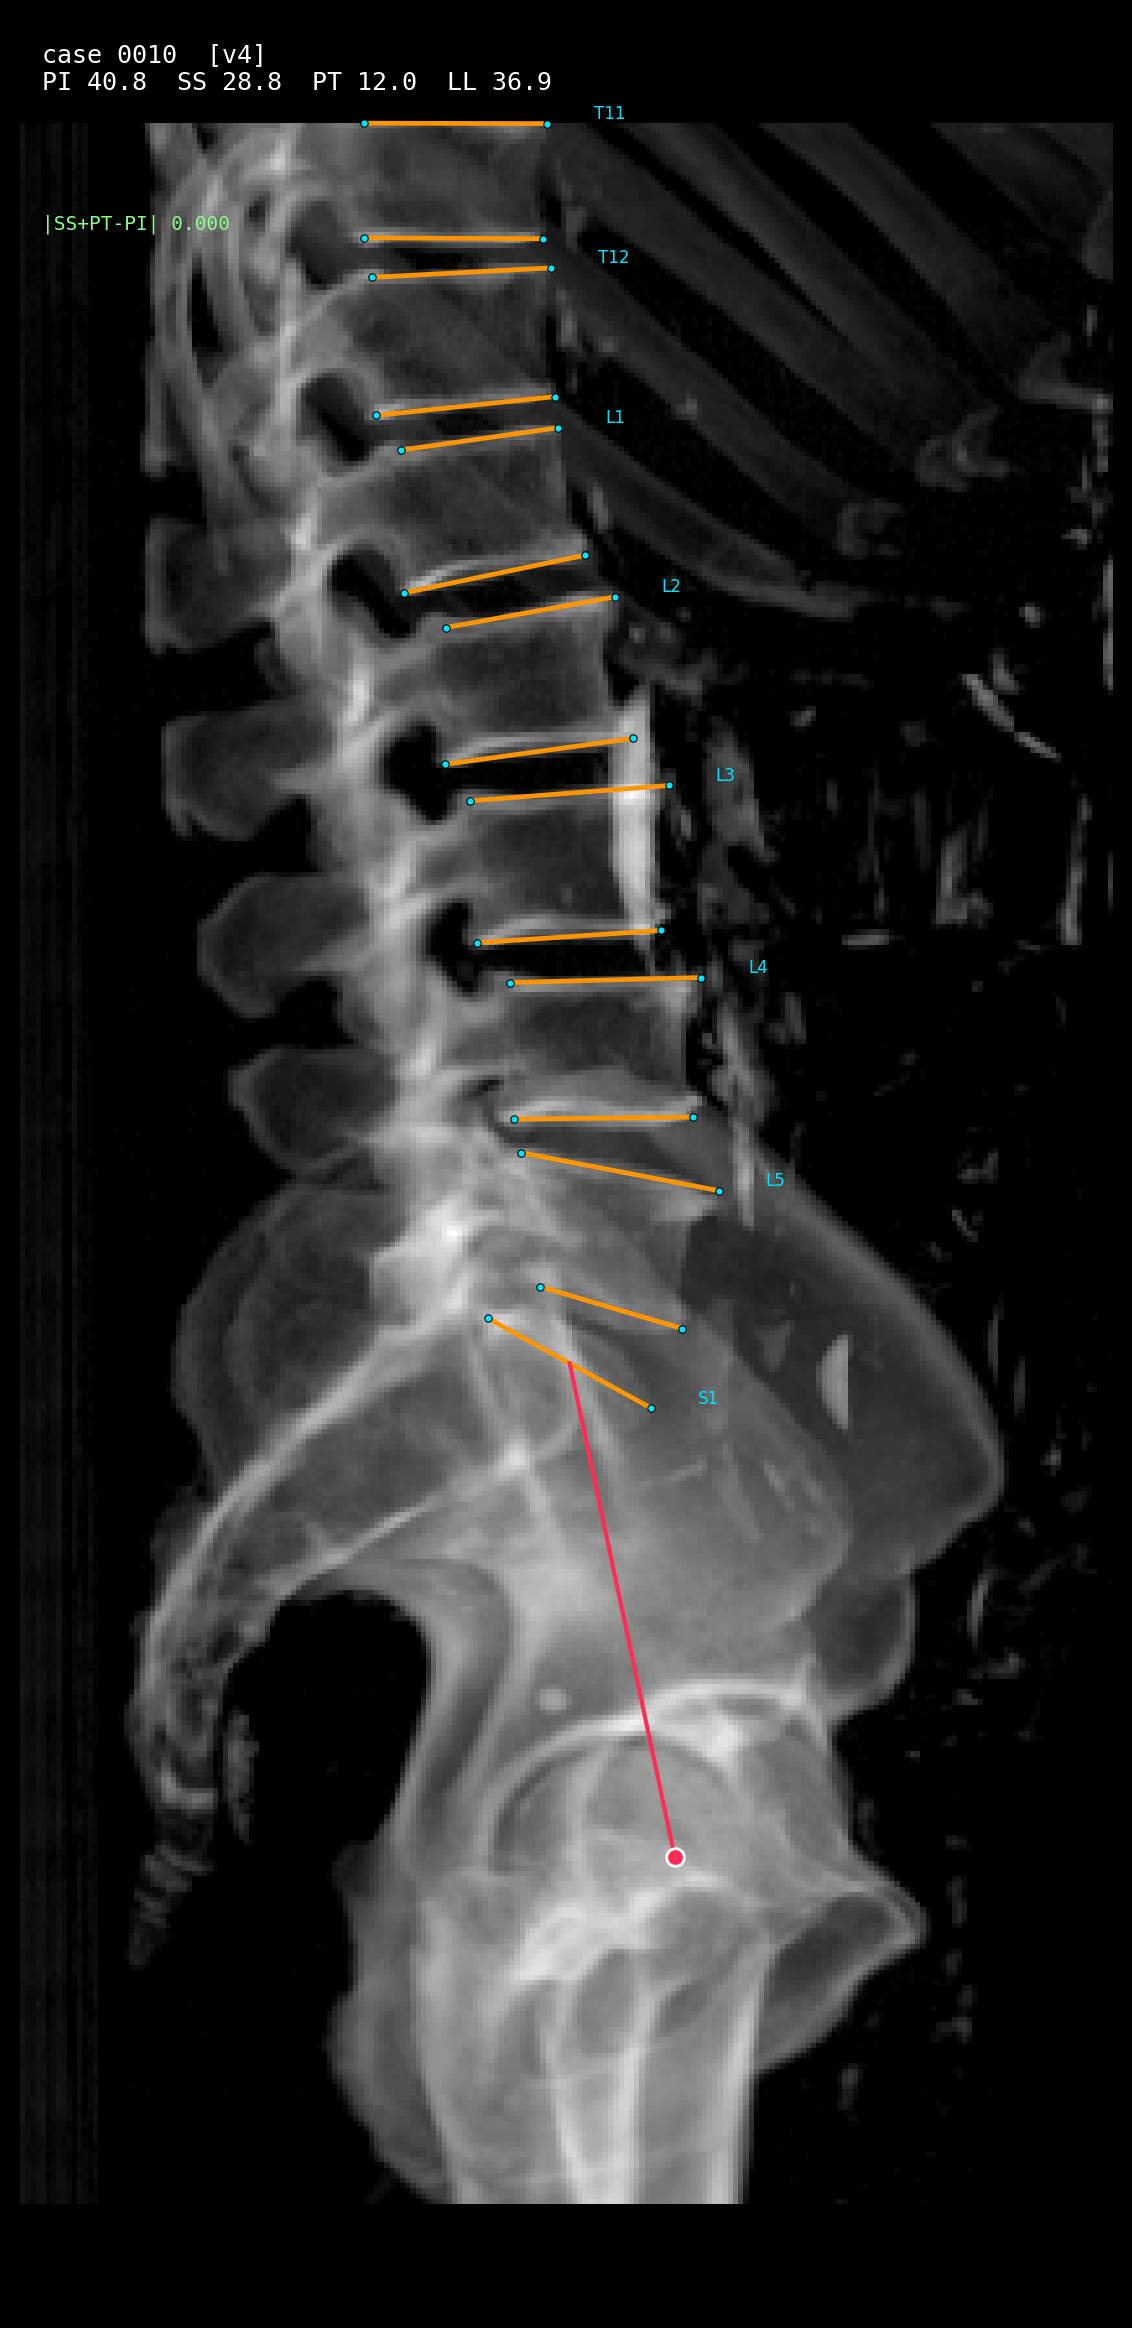
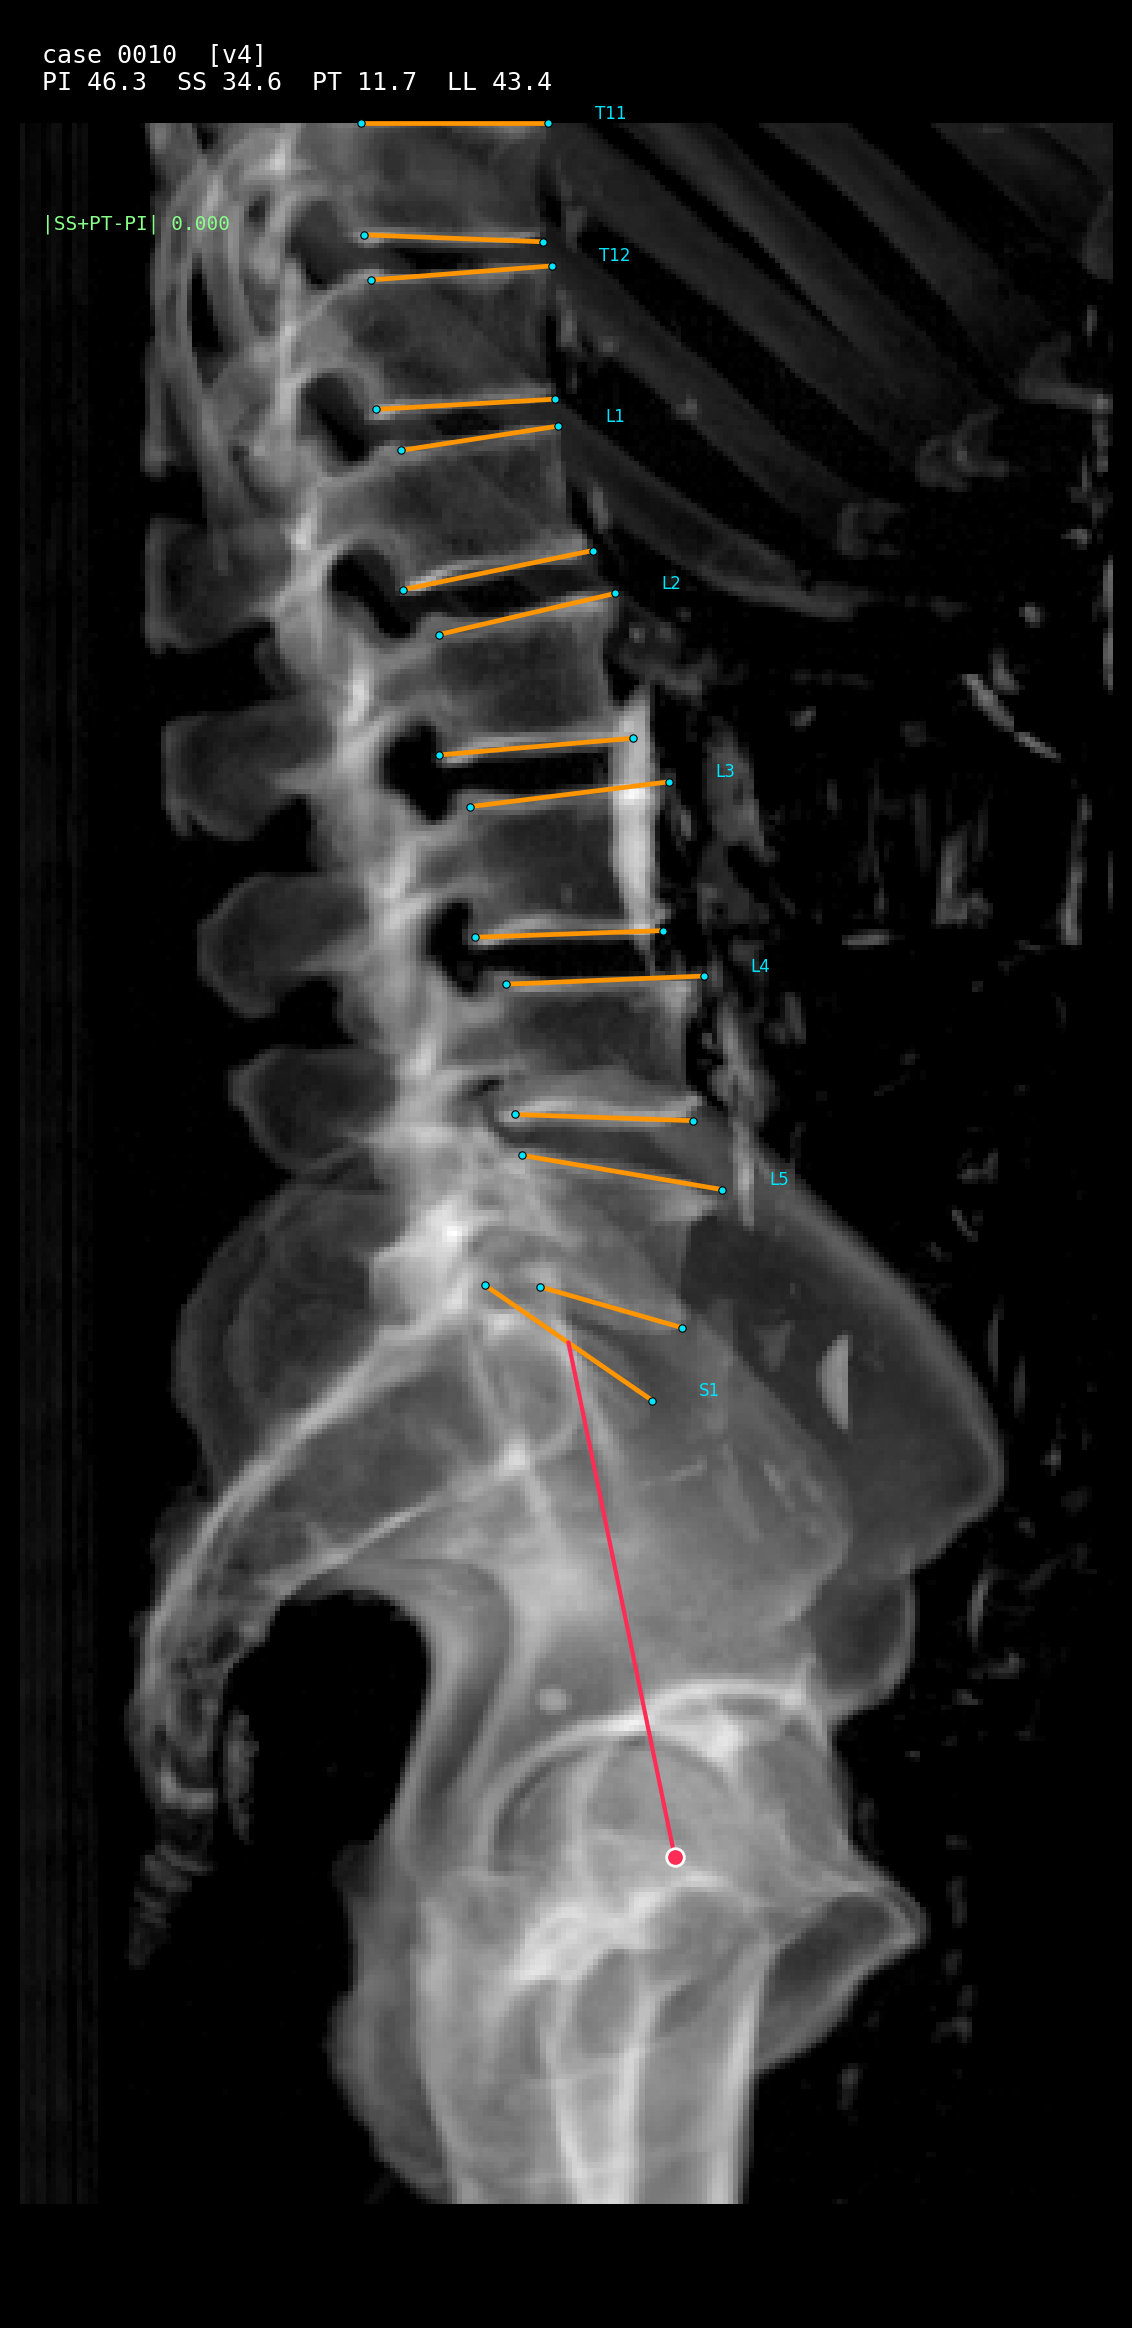
buu_convention: score our corner rule against 400 reader-annotated radiographs
Replaces eyeballing with a measurement. BUU-LSpine 400 ships reader-placed corners on
real laterals: per vertebra a superior and an inferior plate, L1..L5, plus S1a -- and no
S1b. The readers mark no inferior S1 endplate either, independent confirmation of the
call this pipeline already made (S1 is fused to S2; no disc space, no plate).

Ours come from CT and theirs from radiographs of other patients, so corners cannot be
compared point-for-point. The CONVENTION can, through scale-free quantities: segmental
and global lordosis, the wedge angle between a vertebra's own two plates, and plate span
/ body height. Identical code computes them for both sources.

  metric        BUU p5-p95      ours median   in band (n=7)
  LL            20.4 - 67.2        43.4          6/7
  aspect L1-L5   1.1 - 1.8         1.3          33/35
  wedge  L1-L5   0.3 - 15.4     2.8 - 11.6      22/35
  disc   L5S1    2.8 - 25.8        14.5          6/7
  disc   L1L2..L3L4                            mostly OUTSIDE

ASPECT is the direct answer to "are the corners in the right place": span/height matches
reader annotations at every level. WEDGE is the metric that would have caught the bugs
found this session by number rather than by eye -- BUU p95 is ~9-15 deg, while a broken
plate fit gave 32.8 deg at T12 and 37 deg at 0003 L1.

The upper-lumbar disc angles come out lower, often negative, where readers get +7 to +11.
CTSpinoPelvic1K is SUPINE CT and BUU is STANDING radiography; lordosis is posture
[…]

diff --git a/scripts/buu_convention.py b/scripts/buu_convention.py
@@ -1,0 +1,234 @@
+#!/usr/bin/env python3
+"""Measure the READER convention on BUU-LSpine, then check ours reproduces it.
+
+BUU-LSpine 400 ships reader-placed vertebral corners on real lateral radiographs:
+per vertebra a superior plate (`L1a`) and an inferior plate (`L1b`), each as two corner
+points, L1..L5, plus `S1a` -- and, notably, no `S1b`. The readers mark no inferior S1
+endplate, which is the same call this pipeline makes for the same reason: S1 is fused to
+S2, so there is no disc space and no inferior plate to mark.
+
+Why this is the right target: it removes the eyeballing. Our corners come from CT, BUU's
+from radiographs of different patients, so they cannot be compared point-for-point --
+but the CONVENTION can be compared, through quantities that do not depend on scale or on
+which patient it is:
+
+  * segmental and global lordosis angles (degrees)
+  * the wedge angle between a vertebra's own two endplates (degrees)
+  * plate span / body height (dimensionless aspect ratio)
+
+If our corner rule matches the readers' rule, these distributions coincide. If we are
+systematically cutting the plates short or chasing osteophytes, the aspect ratio and the
+wedge angle move and this says so, with a number rather than an opinion.
+
+The convention being reproduced is the standard one for spinopelvic measurement:
+  Legaye J, Duval-Beaupere G, Hecquet J, Marty C. "Pelvic incidence: a fundamental
+    pelvic parameter for three-dimensional regulation of spinal sagittal curves."
+    Eur Spine J 1998;7(2):99-103.
+  Berthonnaud E, Dimnet J, Roussouly P, Labelle H. "Analysis of the sagittal balance of
+    the spine and pelvis using shape and orientation parameters."
+    J Spinal Disord Tech 2005;18(1):40-47.
+  Frobin W, Brinckmann P, Biggemann M, Tillotson M, Burton K. "Precision measurement of
+    disc height, vertebral height and sagittal plane displacement from lateral
+    radiographic views of the lumbar spine." Clin Biomech 1997;12(Suppl 1):S1-S63.
+"""
+from __future__ import annotations
+
+import argparse
+import glob
+import os
+import sys
+
+import numpy as np
+
+LEVELS = ["L1", "L2", "L3", "L4", "L5"]
+# CSV row order, cranial -> caudal: L1sup, L1inf, L2sup, L2inf, ... L5inf, S1sup
+ROWS = [(lv, f) for lv in LEVELS for f in ("sup", "inf")] + [("S1", "sup")]
+
+
+def load_case(path):
+    """{(level, face): ((x1,y1),(x2,y2))} from one BUU lateral CSV."""
+    a = np.loadtxt(path, delimiter=",", ndmin=2)
+    if len(a) < len(ROWS):
+        return None
+    out = {}
+    for i, key in enumerate(ROWS):
+        out[key] = (a[i, 0:2].astype(float), a[i, 2:4].astype(float))
+    return out
+
+
+def plate_angle(p, q, anterior_sign=+1.0):
+    """Signed angle of an endplate line, degrees, in image coordinates (y grows DOWN).
+
+    Positive = the anterior end sits HIGHER, the sense lordosis is measured in.
+    """
+    d = np.asarray(q, float) - np.asarray(p, float)
+    if anterior_sign < 0:
+        d = -d
+    return float(np.degrees(np.arctan2(-d[1], d[0])))
+
+
+def wrap180(d):
+    """Normalise an angle difference to (-180, 180].
+
+    arctan2 returns (-180, 180], so a plain subtraction of two plate angles can come back
+    as e.g. 312 deg for what is really -48. That produced an "LL" of 312.7 and a "wedge"
+    of 353.5 before this was applied -- absurd on their face, but only because the values
+    were far outside the anatomic range; a wrap error of the same kind inside the range
+    would pass unnoticed.
+    """
+    return (np.asarray(d, float) + 180.0) % 360.0 - 180.0
+
+
+def cobb(p1, p2, anterior_sign=+1.0):
+    """Angle between two endplate lines (degrees), the Cobb construction."""
+    return float(wrap180(plate_angle(*p2, anterior_sign)
+                         - plate_angle(*p1, anterior_sign)))
+
+
+def case_metrics(c):
+    """Scale-free descriptors of ONE case."""
+    m = {}
+    # global lordosis: L1 superior to S1 superior -- the standard LL landmarks
+    m["LL"] = abs(cobb(c[("L1", "sup")], c[("S1", "sup")]))
+    for lv in LEVELS:
+        s, i = c[(lv, "sup")], c[(lv, "inf")]
+        # wedge: a vertebra's own two plates. Small and positive going down the lumbar
+        # spine (bodies are slightly taller anteriorly); a large value means one plate
+        # was fitted to something that is not an endplate.
+        m[f"wedge_{lv}"] = abs(float(wrap180(plate_angle(*s) - plate_angle(*i))))
+        span = 0.5 * (np.linalg.norm(s[1] - s[0]) + np.linalg.norm(i[1] - i[0]))
+        mid_s, mid_i = 0.5 * (s[0] + s[1]), 0.5 * (i[0] + i[1])
+        h = np.linalg.norm(mid_i - mid_s)
+        if h > 1e-6:
+            m[f"aspect_{lv}"] = span / h        # A-P depth / height, dimensionless
+    for a, b in zip(LEVELS, LEVELS[1:] + ["S1"]):
+        m[f"disc_{a}{b}"] = cobb(c[(a, "inf")], c[(b, "sup")])
+    return m
+
+
+def summarize(rows, keys=None):
+    ks = keys or sorted({k for r in rows for k in r})
+    print(f"{'metric':14s}{'n':>5s}{'p5':>9s}{'median':>9s}{'p95':>9s}{'mean':>9s}{'sd':>8s}")
+    out = {}
+    for k in ks:
+        v = np.array([r[k] for r in rows if k in r and np.isfinite(r[k])])
+        if not len(v):
+            continue
+        out[k] = v
+        print(f"{k:14s}{len(v):5d}{np.percentile(v,5):9.1f}{np.median(v):9.1f}"
+              f"{np.percentile(v,95):9.1f}{v.mean():9.1f}{v.std():8.1f}")
+    return out
+
+
+def main(argv=None):
+    ap = argparse.ArgumentParser(description=__doc__,
+                                 formatter_class=argparse.RawDescriptionHelpFormatter)
+    ap.add_argument("--buu", required=True, help="BUU-LSPINE_400 directory")
+    ap.add_argument("--ours", nargs="*", default=[],
+                    help="generated *_corners.json to score against the reader convention")
+    a = ap.parse_args(argv)
+
+    files = sorted(glob.glob(os.path.join(a.buu, "LA", "*.csv")))
+    if not files:
+        sys.exit(f"no lateral CSVs under {a.buu}/LA")
+    rows, bad = [], 0
+    for f in files:
+        c = load_case(f)
+        if c is None:
+            bad += 1
+            continue
+        rows.append(case_metrics(c))
+    print(f"BUU-LSpine lateral: {len(rows)} cases ({bad} unreadable)\n")
+    KEYS = (["LL"] + [f"wedge_{l}" for l in LEVELS] + [f"aspect_{l}" for l in LEVELS]
+            + [f"disc_{a_}{b_}" for a_, b_ in zip(LEVELS, LEVELS[1:] + ["S1"])])
+    ref = summarize(rows, KEYS)
+    if not a.ours:
+        return 0
+
+    ours = []
+    for f in a.ours:
+        c = load_ours(f)
+        if c:
+            ours.append(case_metrics(c))
+    if not ours:
+        print("\nno usable generated cases")
+        return 1
+    print(f"\n\nOURS (CT-derived, projected): {len(ours)} cases\n")
+    mine = summarize(ours, KEYS)
+
+    # Score: is each of ours inside the reader distribution? p5-p95 is the band 90% of
+    # real reader annotations fall in, so landing outside it is a concrete, checkable
+    # failure rather than an impression.
+    print("\n\nAGREEMENT with the reader convention (BUU p5-p95 band)\n")
+    print(f"{'metric':14s}{'BUU p5-p95':>18s}{'ours median':>13s}{'in band':>9s}{'ours outside':>14s}")
+    n_bad = 0
+    for k in KEYS:
+        if k not in ref or k not in mine:
+            continue
+        lo, hi = np.percentile(ref[k], 5), np.percentile(ref[k], 95)
+        v = mine[k]
+        inb = int(((v >= lo) & (v <= hi)).sum())
+        out = len(v) - inb
+        n_bad += out
+        flag = "" if out == 0 else "   <<<"
+        print(f"{k:14s}{f'{lo:.1f} - {hi:.1f}':>18s}{np.median(v):13.1f}"
+              f"{f'{inb}/{len(v)}':>9s}{out:14d}{flag}")
+    print(f"\ntotal outside the reader band: {n_bad}")
+    return 0
+
+
+def load_ours(path):
+    """Our generated *_corners.json -> the same {(level, face): (p, q)} structure.
+
+    Emitted corners are named by anatomy (sup_ant / sup_post) and are ordered here to
+    match BUU's convention -- ANTERIOR FIRST -- so every metric below is computed by
+    identical code for both sources. Nothing of ours gets its own formula; that is the
+    only way the comparison means anything.
+
+    BUU's anterior side was determined from the data, not assumed. Two candidate tests
+    disagree at first glance and the anatomy settles it:
+
+      * the second point of the S1 plate is the higher one in 398/400 cases;
+      * L1's plate midpoint sits ~100 px to the RIGHT of S1's.
+
+    The sacral endplate slopes DOWN AND FORWARD -- the reason L5 tends to slip down it --
+    so the promontory, the anterior corner, is the LOWER point. That makes BUU's FIRST
+    point anterior and anterior = image-left; the second test then agrees, since lordosis
+    carries L1 posterior to S1, i.e. to the right. Our renders put anterior on the RIGHT
+    (see oblique._grid), so the two are mirrored, and getting this backwards silently
+    flips the sign of every segmental disc angle while leaving LL, wedge and aspect --
+    all unsigned -- looking perfectly fine.
+    """
+    import json
+    try:
+        d = json.load(open(path, encoding="utf-8"))
+    except Exception:                                     # noqa: BLE001
+        return None
+    C = d.get("endplate_corners", {})
+    out = {}
+    for lv in LEVELS + ["S1"]:
+        cs = C.get(lv)
+        if not cs:
+            return None                                   # need the full L1..S1 chain
+        for face, (ka, kp) in (("sup", ("sup_ant", "sup_post")),
+                               ("inf", ("inf_ant", "inf_post"))):
+            if ka in cs and kp in cs:
+                # MIRROR x. BUU images carry anterior on the LEFT, ours on the RIGHT
+                # (oblique._grid), and a mirror NEGATES every signed angle. Re-ordering
+                # the two points does not fix it -- swapping both plates rotates each by
+                # 180 deg and the difference is unchanged, so the disc angles came out
+                # sign-flipped either way until the mirror itself was applied. LL, wedge
+                # and aspect are all unsigned and hid this completely.
+                mir = np.array([-1.0, 1.0])
+                out[(lv, face)] = (np.asarray(cs[ka], float) * mir,
+                                   np.asarray(cs[kp], float) * mir)
+    if ("S1", "sup") not in out:
+        return None
+    for lv in LEVELS:
+        if (lv, "sup") not in out or (lv, "inf") not in out:
+            return None
+    return out
+
+
+if __name__ == "__main__":
+    raise SystemExit(main())

diff --git a/xrsp/oblique.py b/xrsp/oblique.py
@@ -204,27 +204,35 @@ def _level_crop(lab, affine, level_id: int, level_name, up3, d, bbox=None):
     the whole sacrum into the posterior elements.
     """
     from ostk.vertebral_body import body_mask
-    m = (lab == level_id)
-    if not m.any():
-        return None, None, None, None
     ctx_ids = ()
     if (level_name or "") == "S1":
         from .labels import labels_for
         sac = labels_for(lab).get("sacrum")
-        if sac is not None and (lab == sac).any():
+        if sac is not None:
             ctx_ids = (int(sac),)
-    wide = m.copy()
-    for e in ctx_ids:
-        wide = wide | (lab == e)
-    # `bbox` avoids a per-level find_objects over the whole volume. ndimage.find_objects
-    # returns EVERY label's box in one pass, so the caller computes it once per case --
-    # the repeated full-volume passes were 14 s per level on a torso CT.
-    sl = bbox if (bbox is not None and not ctx_ids) else         ndimage.find_objects(wide.astype(np.uint8))[0]
+
+    # SLICE FIRST, compare second. `bbox` (every label's box, from one find_objects per
+    # case) means the whole-volume `lab == level_id` is never needed: on a torso CT that
+    # comparison sweeps 158M voxels and it was running per level, several times over,
+    # purely to build a mask that gets cropped away immediately afterwards.
+    if bbox is not None and not ctx_ids:
+        sl = bbox
+        sub = (lab[sl] == level_id)
+        if not sub.any():
+            return None, None, None, None
+        ctx = None
+    else:
+        m = (lab == level_id)
+        if not m.any():
+            return None, None, None, None
+        wide = m.copy()
+        for e in ctx_ids:
+            wide = wide | (lab == e)
+        sl = ndimage.find_objects(wide.astype(np.uint8))[0]
+        sub, ctx = m[sl], (wide[sl] if ctx_ids else None)
     off = np.array([sl[0].start, sl[1].start, sl[2].start], float)
     A2 = np.asarray(affine, float).copy()
     A2[:3, 3] = A2[:3, 3] + A2[:3, :3] @ off
-    sub = m[sl]
-    ctx = wide[sl] if ctx_ids else None
     body = body_mask(sub, A2, sup_axis=up3, lr=d, canal_from=ctx)
     return sub, A2, ctx, body
 
@@ -311,10 +319,17 @@ def endplate_corners_2d(label, affine, plan, level_id: int, *, level_name: str =
     # `points` lets the caller extract this level once and reuse it for BOTH faces --
     # the extraction is a full-volume compare plus a component pass, and doing it twice
     # per level was 48 s a case.
-    pts = (np.asarray(points, float) if points is not None else
-           _level_points_world(np.asarray(label), np.asarray(affine, float),
-                               int(level_id), largest_component))
-    if len(pts) < min_voxels:
+    # Only the point-cloud path needs this. It is a whole-volume compare plus a
+    # connected-component pass, and it was running unconditionally -- once per endplate
+    # FACE -- even though method="body" never touches `pts`. That single misplaced line
+    # was ~13 s per level, i.e. most of the runtime of a case.
+    if method == "body":
+        pts = None
+    else:
+        pts = (np.asarray(points, float) if points is not None else
+               _level_points_world(np.asarray(label), np.asarray(affine, float),
+                                   int(level_id), largest_component))
+    if pts is not None and len(pts) < min_voxels:
         return None
     d = np.asarray(plan["direction"], float)
     up3 = np.asarray(plan["up"], float)

diff --git a/xrsp/build_dataset.py b/xrsp/build_dataset.py
@@ -141,9 +141,26 @@ def build_case_oblique(ct_path, label_path, out_dir, *, n_views=8, seed=0, gamma
         try:
             from ostk.metrics import femoral_head_center
             for fem, hip in (("femur_left", "left_hip"), ("femur_right", "right_hip")):
+                # CROP to this side's femur+hip before fitting. femoral_head_center runs
+                # a connected-component pass, and over a whole torso volume that cost
+                # 129 s of a ~250 s case -- more than half the runtime, for a structure
+                # occupying a few percent of the voxels. The sphere fit is unchanged; it
+                # simply stops scanning the other 95% of the scan.
+                fid, hid = LABELS.get(fem), LABELS.get(hip)
+                if fid is None:
+                    continue
+                sel = (lab == fid)
+                if hid is not None:
+                    sel = sel | (lab == hid)
+                if not sel.any():
+                    continue
+                _sl = ndimage.find_objects(sel.astype(np.uint8))[0]
+                _off = np.array([_sl[0].start, _sl[1].start, _sl[2].start], float)
+                _aff = np.asarray(aff, float).copy()
+                _aff[:3, 3] = _aff[:3, 3] + _aff[:3, :3] @ _off
                 # LABELS is this volume's own map -- ostk would otherwise resolve
                 # `femur_left` through its legacy scheme and fit a thoracic vertebra.
-                res = femoral_head_center(lab, aff, fem, hip, labels=LABELS)
+                res = femoral_head_center(lab[_sl], _aff, fem, hip, labels=LABELS)
                 # returns (centre_xyz, radius_mm, rms) -- take the centre only
                 if res is not None and len(res):
                     heads_world.append(np.asarray(res[0], float))
